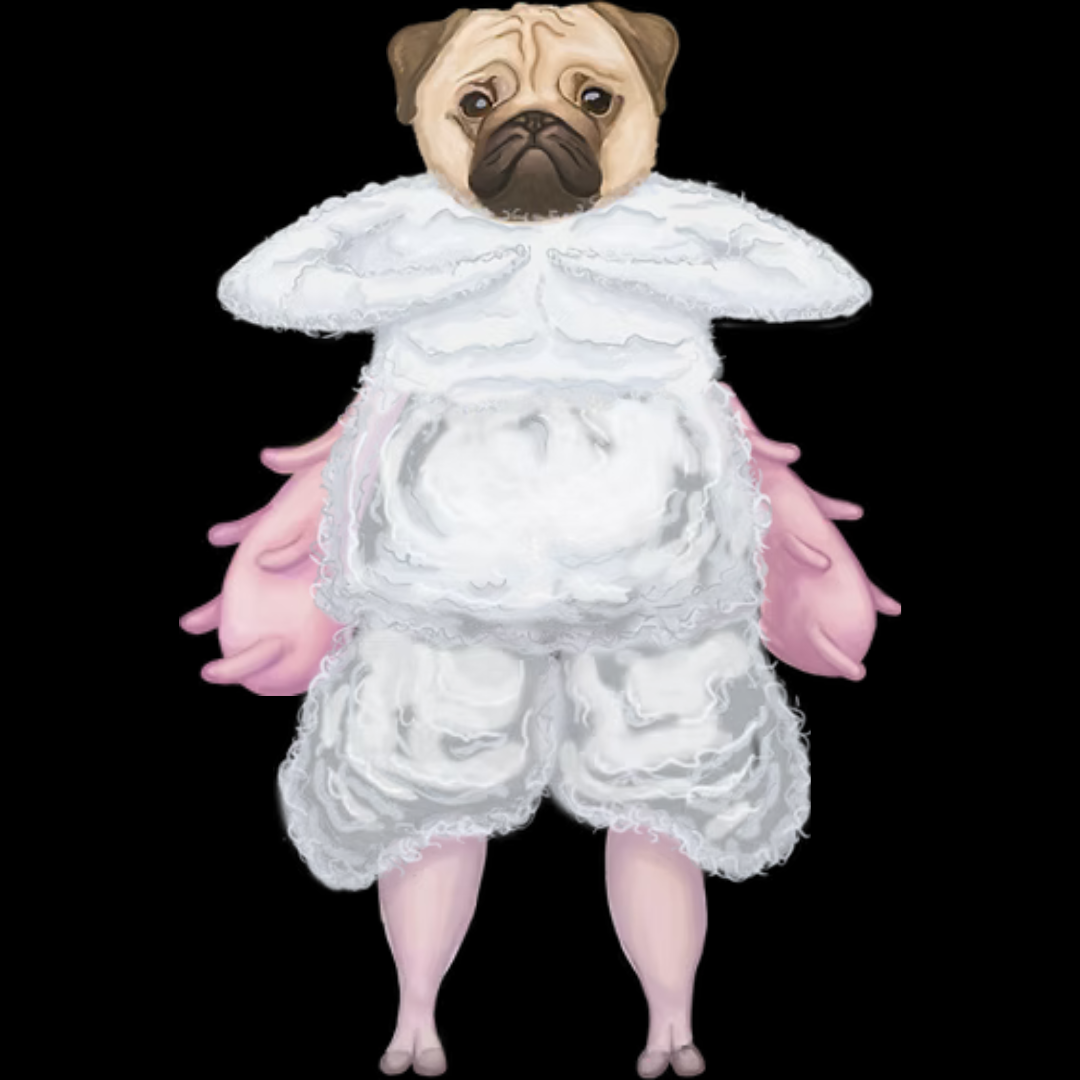
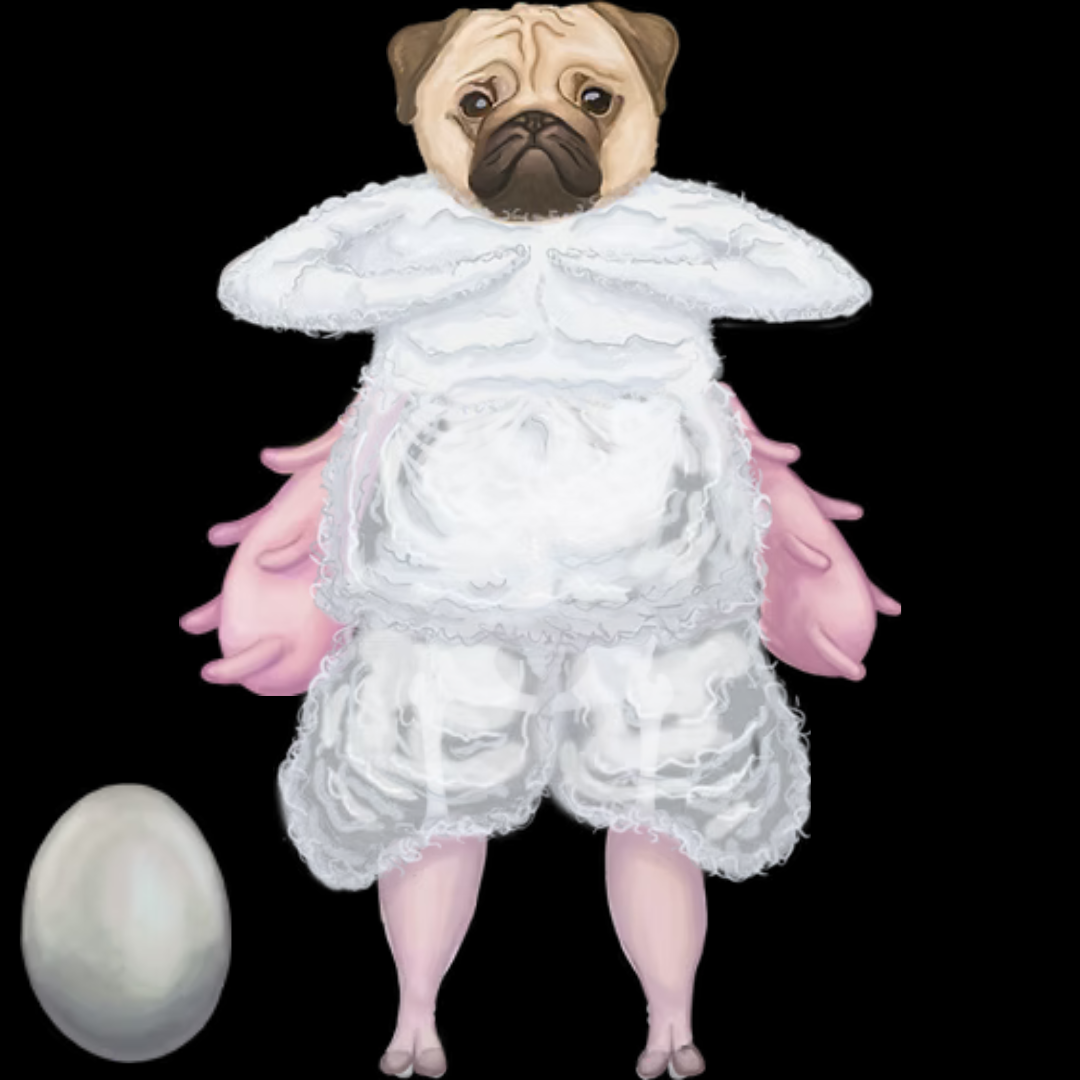
Attempt image map

diff --git a/html/body.html b/html/body.html
@@ -19,7 +19,17 @@
     <div class="layer">
       <div class="layer-layout" id="layer-1">
         <p>1</p>
-        <img src="../images/layer_1.png" class="image_layer">
+        <img src="../images/layer_1.png" class="image_layer" usemap="#image-map">
+        <map name="image-map">
+          <area target="_self" alt="Head" title="Head" href="pug_intro.html" coords="456,15,392,33,389,112,410,130,425,167,462,197,516,218,592,206,650,173,662,109,677,39,655,17,533,2,600,3,498,2,635,2" shape="poly">
+          <area target="_self" alt="Stomach" title="Stomach" href="sheep_intro.html" coords="585,822,677,843,721,889,794,860,814,778,765,620,761,517,736,429,705,321,547,377,374,347,325,489,357,620,341,647,297,721,281,766,275,798,289,849,278,821,283,840,310,875,363,898,441,845,532,828,551,792" shape="poly">
+          <area target="_self" alt="Chest" title="Chest" href="sheep_intro.html" coords="419,170,295,215,215,290,248,329,547,379,714,320,874,314,834,237,658,170,532,223" shape="poly">
+          <area target="_self" alt="Leg Left" title="Leg Left" href="cow_skin_intro.html" coords="453,1072,433,1010,476,910,492,838,430,847,371,882,397,991,400,1009,381,1078" shape="poly">
+          <area target="_self" alt="Leg Right" title="Leg Right" href="cow_skin_intro.html" coords="608,827,650,828,683,845,706,872,708,927,695,986,691,1025,703,1056,706,1069,642,1071,653,1012,615,934,601,872" shape="poly">
+          <area target="" alt="Udder Left" title="Udder Left" href="cow_milk_intro.html" coords="356,400,263,449,212,531,183,623,199,669,240,698,304,699,357,633,325,501" shape="poly">
+          <area target="" alt="Udder Right" title="Udder Right" href="cow_milk_intro.html" coords="727,382,802,449,865,510,905,607,865,684,782,673,765,608,753,464" shape="poly">
+          <area target="_self" alt="" title="" href="chicken_egg_intro.html" coords="121,785,150,790,195,825,225,889,234,961,211,1019,160,1060,98,1060,51,1025,28,973,25,874,56,815,90,789" shape="poly">
+        </map>
         <a href="#layer-2"><img class="image-body" src="../images/arrow-down.png"></a>
       </div>
     </div>
